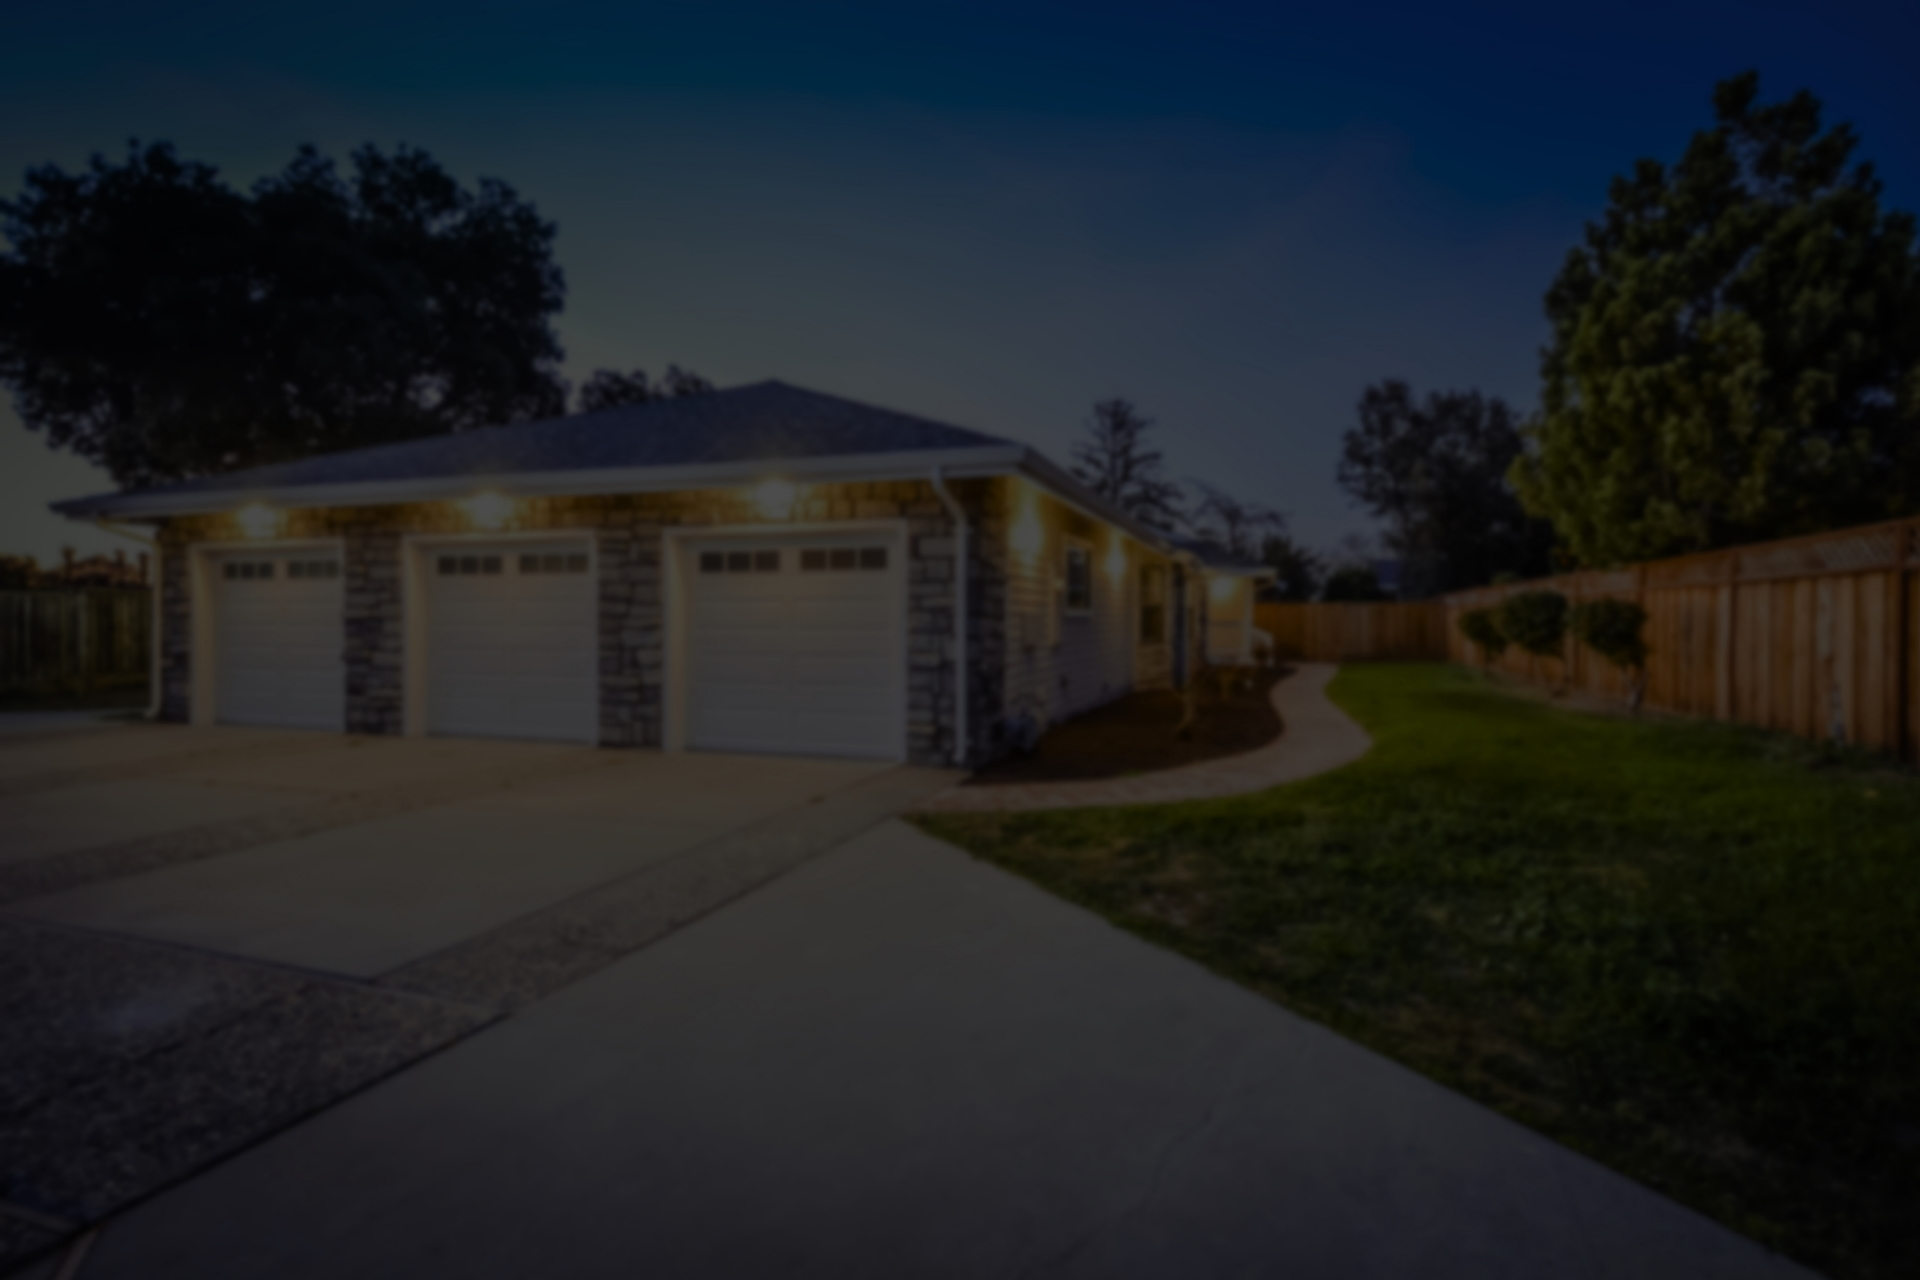
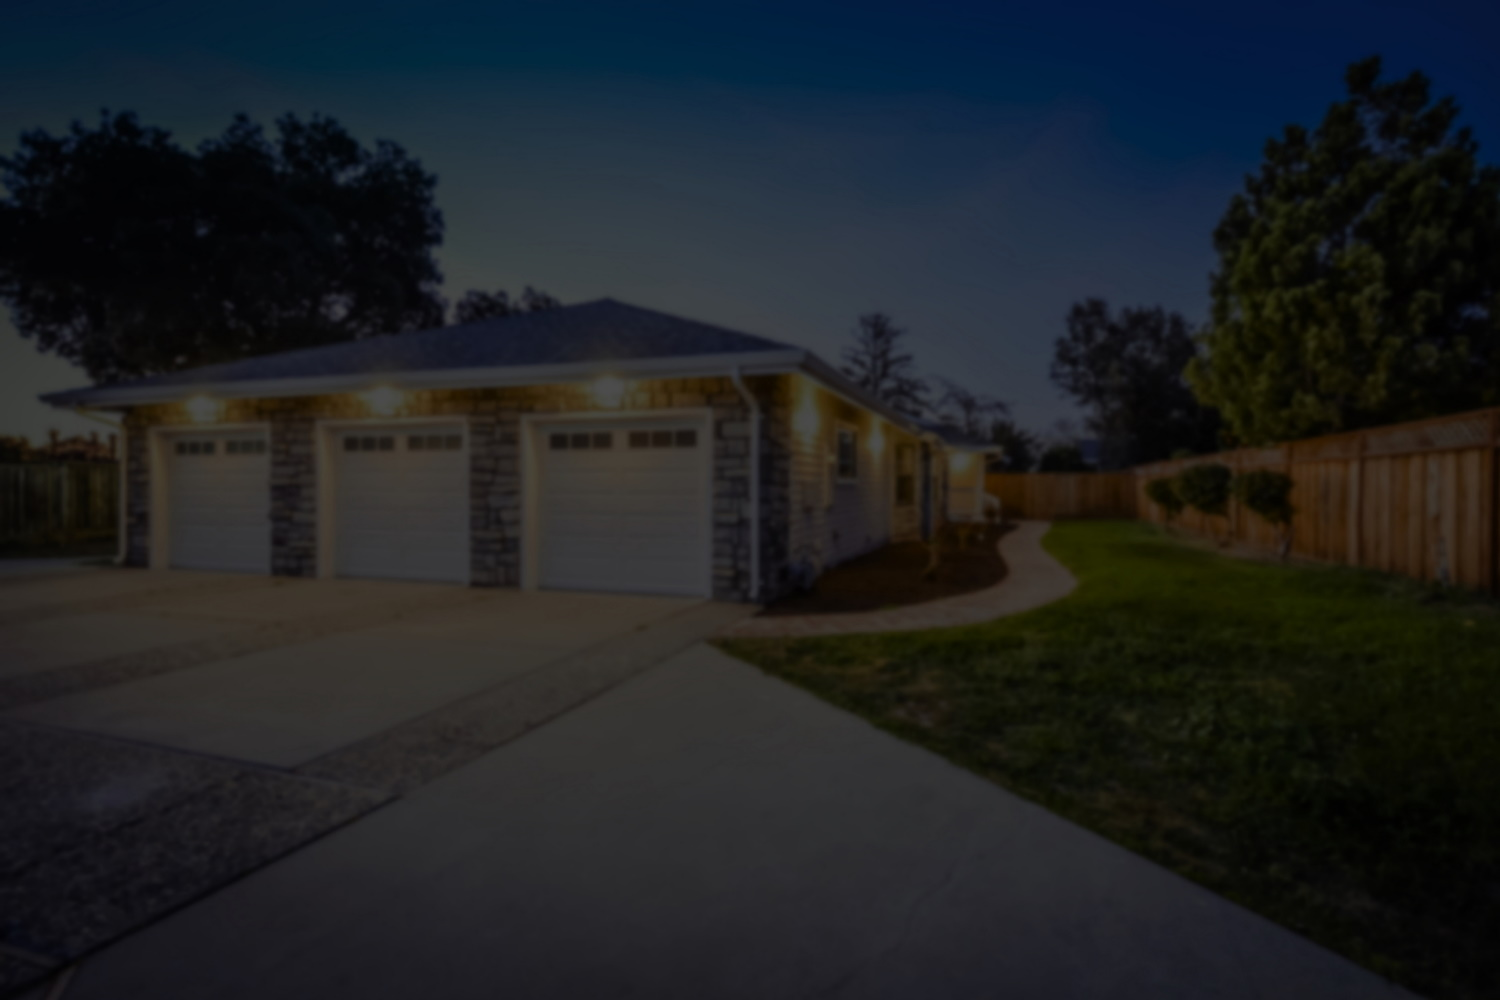
listing card firebase data and styled

diff --git a/src/components/Listings/ListingCard.js b/src/components/Listings/ListingCard.js
@@ -1,10 +1,79 @@
 import React from "react";
 
+import SectionHeader from "../Other/SectionHeader";
+
 export default function ListingCard(props) {
+  var formatter = new Intl.NumberFormat("en-US", {
+    style: "currency",
+    currency: "USD",
+    maximumFractionDigits: 0,
+    minimumFractionDigits: 0,
+  });
+  let title = props.address.split(",", 2).join();
+  console.log(props.overview);
   return (
-    <div className="card listing-card shadow mb-3 p-2">
-      <h2>{props.address}</h2>
-      <p>{props.test}</p>
+    <div className="listing-card" data-id={props.id}>
+      <div className="row no-gutters align-items-center">
+        {props.images.preview && (
+          <div className="col-xl-4 col-3 d-none d-md-block">
+            <img
+              src={props.images.preview}
+              alt="listing preview"
+              className="img-fluid listing-preview desktop"
+            />
+          </div>
+        )}
+        <div className="col">
+          <img
+            src={props.images.preview}
+            alt="listing preview"
+            className="img-fluid listing-preview card-img-top d-block d-md-none"
+          />
+          <div className="mx-3 ml-xl-4">
+            <SectionHeader smaller={true} light={true}>
+              {title}
+            </SectionHeader>
+
+            <p className="price">{formatter.format(props.overview.price)}</p>
+            <p className="overview">
+              <span className="firstvalue">{props.overview.beds}</span> Bd
+              <span className="value">
+                {props.overview.baths[0]}
+                {props.overview.baths[1] && "/" + props.overview.baths[1]}
+              </span>{" "}
+              Ba
+              <span className="value">
+                {props.overview.sqft.toLocaleString("en")}
+              </span>
+              Sq Ft
+              <span className="value">
+                {props.overview.sqftlot.toLocaleString("en")}
+              </span>
+              Sq Ft Lot
+              {props.overview.garage && (
+                <span>
+                  <span className="value">{props.overview.garage}</span> Garage
+                </span>
+              )}
+              <span className="value">
+                {props.overview.yearbuilt}
+              </span>
+              Year Built
+            </p>
+
+            <div className="mb-3 mt-4 mt-3">
+            <a
+              href={props.mls}
+              className="btn-get-started main-action text-decoration-none"
+              target="_blank"
+              rel="noopener noreferrer"
+            >
+              Learn more
+            </a>
+          </div>
+          </div>
+        </div>
+      </div>
     </div>
   );
 }

diff --git a/src/assets/style.css b/src/assets/style.css
@@ -2,6 +2,8 @@
 
 :root {
   --bright: rgb(235, 75, 75);
+  --darker: #ca3956;
+  --dark: #555555;
 }
 
 body,
@@ -16,12 +18,22 @@ html {
   margin-top: 0.25em;
 }
 
+.section-heading.smaller {
+  font-size: 2.1em;
+}
+
 .underline--magical {
   background-image: linear-gradient(120deg, #ff96ab 0%, #ff7893 100%);
+  background-repeat: no-repeat;
   background-size: 100% 0.2em;
   background-position: 0 88%;
   transition: background-size 0.25s ease-in;
 }
+
+.section-heading.light .underline--magical {
+  background-image: linear-gradient(120deg, #ffd5dd 0%, #ffc2ce 100%);
+}
+
 .underline--magical:hover {
   background-size: 100% 88%;
 }
@@ -245,6 +257,7 @@ Hero section
   -moz-background-size: cover;
   -o-background-size: cover;
   background-size: cover;
+  background-position: fixed;
   width: 100%;
   min-height: 100vh;
   height: 100%;
@@ -257,12 +270,68 @@ Hero section
     -moz-background-size: cover;
     -o-background-size: cover;
     background-size: cover;
+    background-position: fixed;
     height: 100%;
   }
 }
 
 .listings-container {
   padding-top: 95px;
+}
+
+.listing-preview {
+  object-fit: cover;
+  height: 100%;
+  min-width: 100%;
+  max-height: 15em;
+}
+
+.listing-preview.desktop {
+  border-top-left-radius: 0.42em;
+  border-bottom-left-radius: 0.42em;
+}
+
+.listing-card {
+  border: 0;
+  border-radius: 0.42em;
+  background: -webkit-gradient(
+    linear,
+    center top,
+    right bottom,
+    from(#f6f6f6),
+    to(#d1d1d1)
+  );
+  transition: ease-out 0.2s;
+  box-shadow: -1px 1px 5px black;
+}
+
+.listing-card:hover {
+  transform: translateY(-0.2em);
+  box-shadow: -0.25em 0.25em 1em black;
+}
+
+.listing-card .price {
+  font-weight: bold;
+  color: var(--dark);
+  font-size: 1.42em;
+}
+
+.listing-card span.value,
+.listing-card span.firstvalue {
+  font-weight: bold;
+  color: var(--darker);
+  font-size: 1.2em;
+}
+
+.listing-card span.value::before {
+  content: " \09 | \09 ";
+  padding-left: 0.55em;
+  padding-right: 0.55em;
+  color: black;
+}
+
+.listing-card span.value::after {
+  content: " ";
 }
 
 /* Contact Section */

diff --git a/src/components/Other/SectionHeader.js b/src/components/Other/SectionHeader.js
@@ -4,7 +4,14 @@ export default function SectionHeader(props) {
   return (
     <div className="row">
       <div className="col">
-        <h1 className={"section-heading " + (props.center && "text-center")}>
+        <h1
+          className={
+            "section-heading " +
+            (props.center && " text-center ") +
+            (props.smaller && " smaller") + 
+            (props.light && " light")
+          }
+        >
           <span className="underline--magical">{props.children}</span>
         </h1>
       </div>

diff --git a/src/components/Listings/Listings.js b/src/components/Listings/Listings.js
@@ -11,8 +11,11 @@ export default function Listings(props) {
       return (
         <ListingCard
           key={doc.id}
+          id={doc.id}
           address={listing.address}
-          test={listing.test}
+          overview={listing.overview}
+          images={listing.images}
+          mls={listing.mls}
         />
       );
     });
